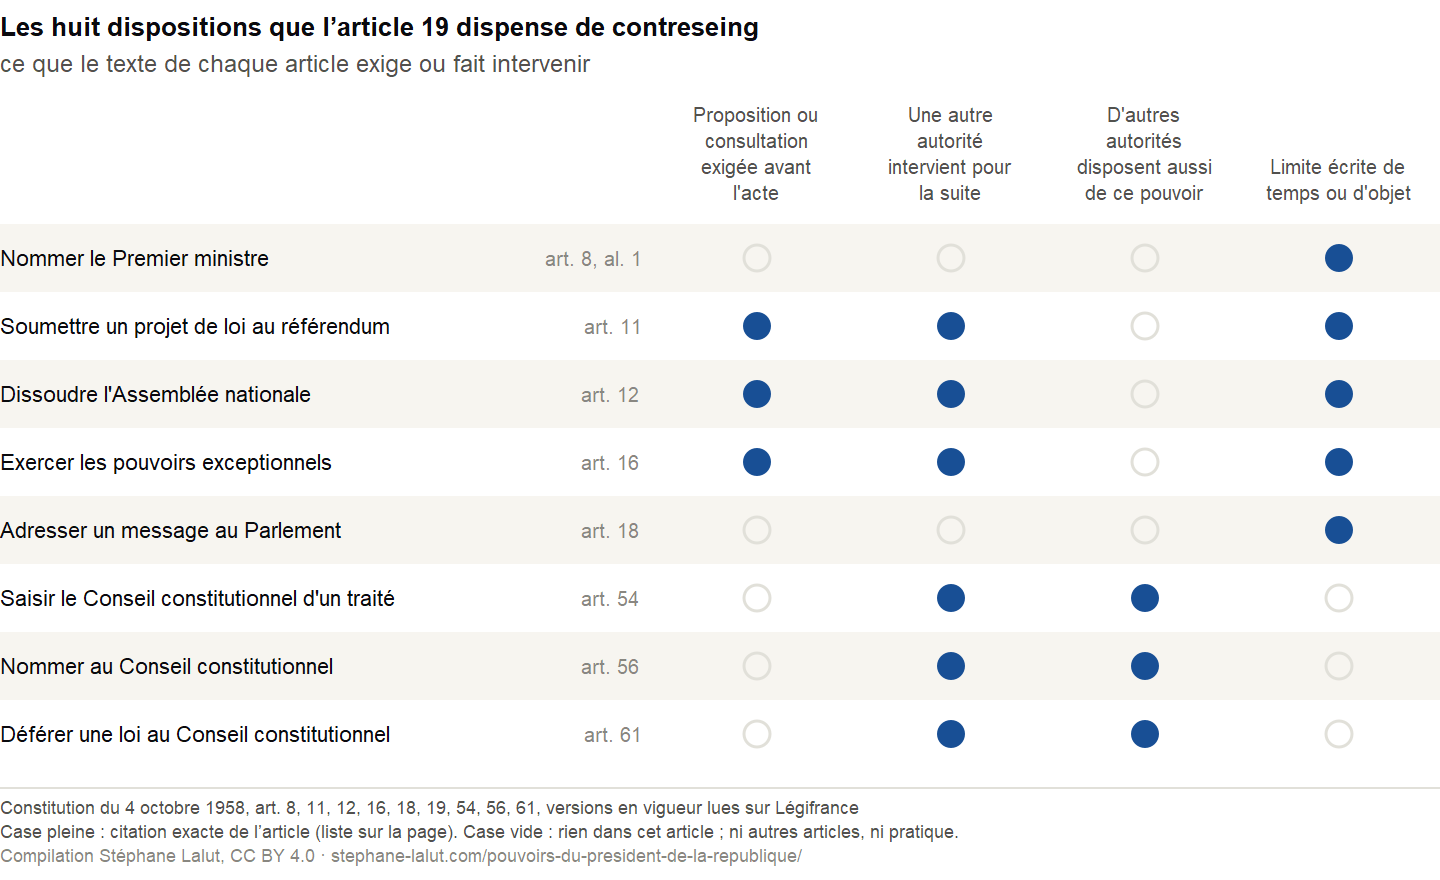
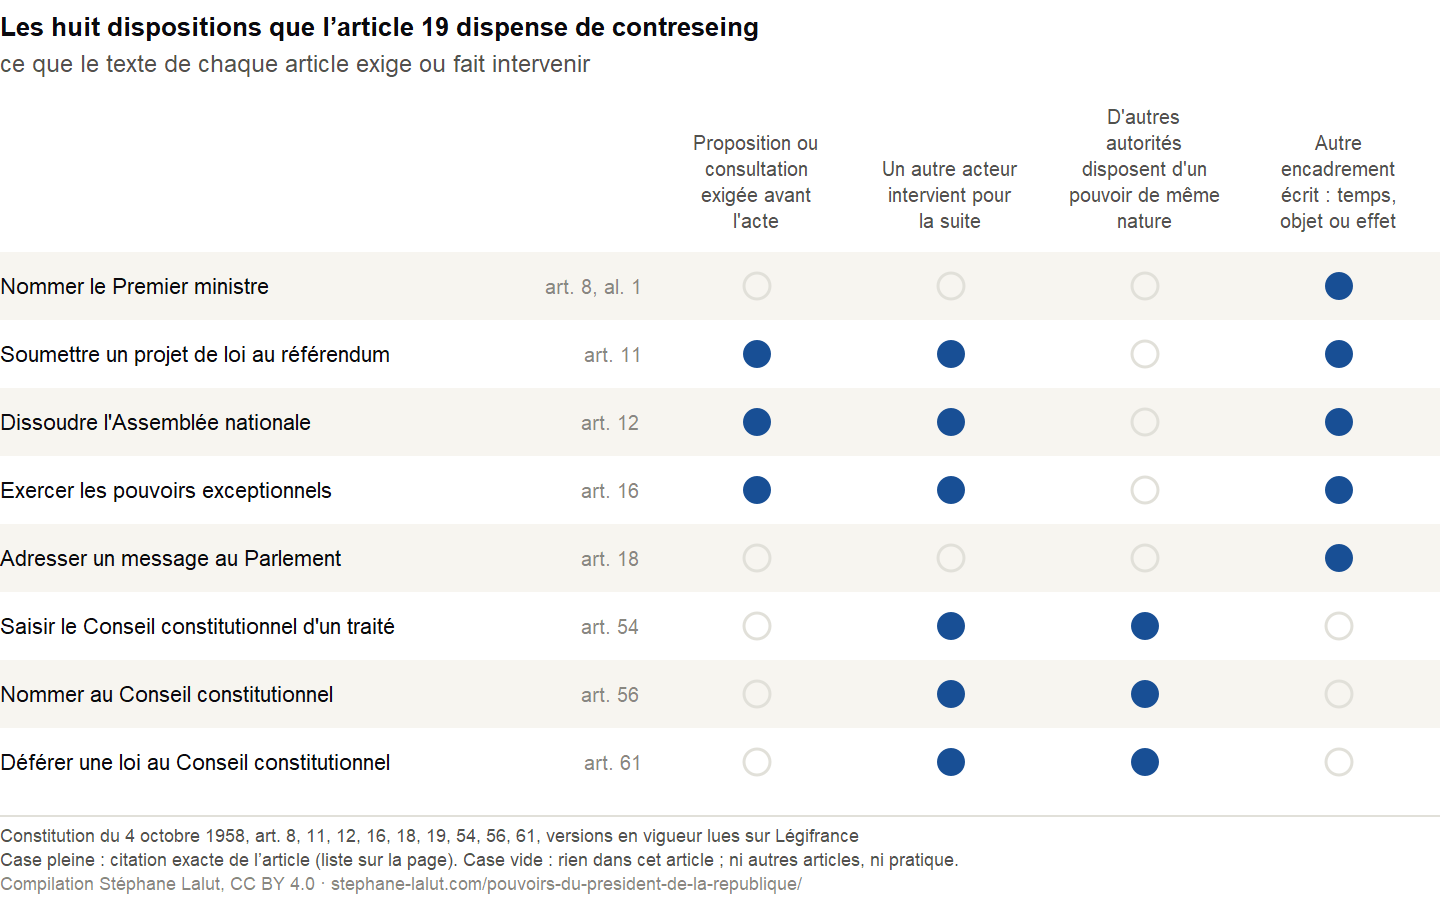
fix(ressources): page Decider blindee apres contre-expertise PRO-20261006-DECIDER
« Soumis au contreseing » remplace « porte la signature du Premier ministre » partout (chapo, introduction, FAQ,
sections) : le test des decrets 2025 a montre que le contreseing peut etre exerce par un ministre delegataire du
Premier ministre (art. 21 al. 2 ; decret n° 2025-504, lu). Resultat en une phrase complete d'une precaution generee
par jeton ; libelles de la matrice (autre acteur, pouvoir de meme nature, autre encadrement ecrit) ; « Signer ne
suffit pas a gouverner » ; art. 37 cite tel quel et art. 38 ajoute (lu, garde G2) ; interpretation generale retiree ;
contradiction de la fiche art. 8 corrigee. Le generateur s'arrete desormais au lieu de tronquer un en-tete de colonne
(« D'autres » perdu sans alerte, vu le 06/10).

Controles : G2 (25 + 7 + 13 citations), G3, G4, mutations ; hugo rc 0 ; check-all --ci 0 ; audit-liens-build 0
critique ; 390 px sans debordement.

diff --git a/layouts/shortcodes/pouvoirs-president.html b/layouts/shortcodes/pouvoirs-president.html
@@ -46,7 +46,7 @@
 {{- else if eq $vue "citations" -}}
 {{- /* Inventaire de l'article 19, une ligne par attribut renseigné : la citation exacte que le générateur a
        retrouvée mot pour mot dans le texte archivé (scripts/update_pouvoirs_president.py, garde G2). */ -}}
-{{- $libs := dict "acte" "Acte" "condition" "Proposition ou consultation exigée avant l'acte" "autre_autorite" "Une autre autorité intervient pour la suite" "partage" "D'autres autorités disposent aussi de ce pouvoir" "limite" "Limite écrite de temps ou d'objet" -}}
+{{- $libs := dict "acte" "Acte" "condition" "Proposition ou consultation exigée avant l'acte" "autre_autorite" "Un autre acteur intervient pour la suite" "partage" "D'autres autorités disposent d'un pouvoir de même nature" "limite" "Autre encadrement écrit : temps, objet ou effet" -}}
 {{- if not $d.inventaire_19 -}}{{ errorf "pouvoirs-president: inventaire_19 absent (%s)" .Page.File.Path }}{{- end -}}
 <div class="table-scroll">
 <table class="pouvoirs-table pouvoirs-citations">

diff --git a/scripts/update_pouvoirs_president.py b/scripts/update_pouvoirs_president.py
@@ -48,9 +48,9 @@ FIG = "pouvoirs-article19"
 PAGE_URL = "stephane-lalut.com/pouvoirs-du-president-de-la-republique/"
 LEGIFRANCE = "https://www.legifrance.gouv.fr/loda/article_lc/"
 ATTRIBUTS = [("condition", "Proposition ou consultation exigée avant l'acte"),
-             ("autre_autorite", "Une autre autorité intervient pour la suite"),
-             ("partage", "D'autres autorités disposent aussi de ce pouvoir"),
-             ("limite", "Limite écrite de temps ou d'objet")]
+             ("autre_autorite", "Un autre acteur intervient pour la suite"),
+             ("partage", "D'autres autorités disposent d'un pouvoir de même nature"),
+             ("limite", "Autre encadrement écrit : temps, objet ou effet")]
 LETTRES_F = {0: "aucune", 1: "une", 2: "deux", 3: "trois", 4: "quatre", 5: "cinq", 6: "six", 7: "sept", 8: "huit"}
 
 
@@ -190,7 +190,7 @@ def txt(x, y, s, size=11, fill=INK2, anchor="start", weight=None) -> str:
 
 def figure(r: dict) -> str:
     inv = r["inventaire"]
-    top, pas, col0, colw = 112, 34, 330, 97
+    top, pas, col0, colw = 126, 34, 330, 97
     H = top + pas * len(inv) + 8
     cart_h = 48
     titre = "Les huit dispositions que l’article 19 dispense de contreseing : ce que leur texte exige ou fait intervenir"
@@ -213,8 +213,10 @@ def figure(r: dict) -> str:
             else:
                 cur = (cur + " " + m).strip()
         lignes.append(cur)
-        for i, l in enumerate(lignes[-4:]):
-            e.append(txt(cx, top - 12 - 13 * (len(lignes[-4:]) - 1 - i), l, 10, INK2, "middle"))
+        if len(lignes) > 5:  # jamais de troncature silencieuse d'un libellé (défaut vu le 06/10 : « D'autres » perdu)
+            raise Arret("figure : libellé de colonne trop long (%d lignes) : %r" % (len(lignes), lib))
+        for i, l in enumerate(lignes):
+            e.append(txt(cx, top - 12 - 13 * (len(lignes) - 1 - i), l, 10, INK2, "middle"))
     for i, ent in enumerate(inv):
         y = top + pas * i + pas / 2
         if i % 2 == 0:
@@ -243,8 +245,9 @@ def fiches_figures(svg: str, A: dict) -> dict:
     if len(cart) != 3 or cart[-1] != LICENCE:
         raise Arret("fiche : cartouche illisible dans le SVG")
     montre = ("Sur les %s dispositions que l'article 19 dispense de contreseing, %s seulement ne contiennent ni condition "
-              "préalable, ni autre autorité appelée à intervenir, ni pouvoir partagé avec d'autres autorités : %s."
-              % (A["n_renvois"], A["n_seuls"], A["seuls_liste"]))
+              "préalable, ni intervention ultérieure d'un autre acteur, ni pouvoir de même nature attribué à d'autres autorités : %s. "
+              "Cette observation ne signifie pas que le président ne disposerait que de %s pouvoirs propres."
+              % (A["n_renvois"], A["n_seuls"], A["seuls_liste"], A["n_seuls"]))
     return {"fr": [dict(id="article19", fichier=FIG, titre=titre, montre=montre, source=cart[0], precaution=cart[1])]}
 
 

diff --git a/scripts/og_pouvoirs_president.py b/scripts/og_pouvoirs_president.py
@@ -16,7 +16,7 @@ sys.path.insert(0, str(Path(__file__).resolve().parent))
 import og_dossier_dette as og  # noqa: E402
 
 ATTRIBUTS = ["condition", "autre_autorite", "partage", "limite"]
-COLS = ["Condition", "Autre", "Partagé", "Limite"]
+COLS = ["Condition", "Autre", "Partagé", "Cadre"]
 
 
 def matrice(d, inv: list[dict]) -> None:

diff --git a/content/pouvoirs-du-president-de-la-republique/_index.md b/content/pouvoirs-du-president-de-la-republique/_index.md
@@ -1,17 +1,17 @@
 ---
 title: "Que peut décider le président de la République seul ?"
 description: "Ce que la Constitution permet au président de faire sans contreseing, à quelles conditions, et qui d'autre intervient : les huit dispositions de l'article 19 lues dans le texte, chaque élément appuyé sur une citation exacte. Données ouvertes."
-chapo: "Sans contreseing, le président peut notamment nommer le Premier ministre et dissoudre l'Assemblée nationale, dans les conditions que fixe la Constitution. L'article 19 énumère huit dispositions dispensées de contreseing ; tous les autres actes du président portent la signature du Premier ministre."
+chapo: "Sans contreseing, le président peut notamment nommer le Premier ministre et dissoudre l'Assemblée nationale, dans les conditions que fixe la Constitution. L'article 19 énumère huit dispositions dispensées de contreseing ; les autres actes du président sont, en principe, soumis au contreseing que prévoit cet article."
 date: 2026-09-30
 lastmod: 2026-10-05
 donnees: [pouvoirs_president_donnees]
 og_title: "Que peut décider le président de la République seul ? — le texte, citation par citation — S. Lalut"
 og_image: "images/og-pouvoirs-president.jpg"
-og_image_alt: "Carte de partage : « Décider seul : ce que dit le texte » — une matrice de huit lignes, une par acte que l'article 19 de la Constitution dispense de contreseing, et quatre colonnes : condition préalable, autre autorité, pouvoir partagé, limite écrite ; case pleine quand l'article contient une citation exacte de l'élément."
+og_image_alt: "Carte de partage : « Décider seul : ce que dit le texte » — une matrice de huit lignes, une par acte que l'article 19 de la Constitution dispense de contreseing, et quatre colonnes : condition préalable, autre acteur, pouvoir de même nature, autre encadrement écrit ; case pleine quand l'article contient une citation exacte de l'élément."
 dataset:  # JSON-LD Dataset (partials/schema-dataset-page.html)
   jeu: "pouvoirs_president_donnees"
   nom: "Les actes du président de la République dispensés de contreseing : inventaire de l'article 19 en citations"
-  description: "Pour chacune des huit dispositions que l'article 19 de la Constitution dispense de contreseing (art. 8 al. 1, 11, 12, 16, 18, 54, 56, 61) : l'acte, la proposition ou la consultation exigée, l'autre autorité appelée à intervenir, les autres autorités disposant aussi de ce pouvoir et la limite écrite, chacun appuyé sur une citation exacte de l'article, vérifiée contre le texte en vigueur lu sur Légifrance ; et les articles qui attribuent la loi et le règlement (art. 13, 19, 21, 34, 37)."
+  description: "Pour chacune des huit dispositions que l'article 19 de la Constitution dispense de contreseing (art. 8 al. 1, 11, 12, 16, 18, 54, 56, 61) : l'acte, la proposition ou la consultation exigée, l'autre acteur appelé à intervenir, les autres autorités disposant d'un pouvoir de même nature et l'autre encadrement écrit, chacun appuyé sur une citation exacte de l'article, vérifiée contre le texte en vigueur lu sur Légifrance ; et les articles qui attribuent la loi et le règlement (art. 13, 19, 21, 34, 37)."
   couverture_temporelle: "2026"
   couverture_spatiale: "France"
   variables:
@@ -23,13 +23,13 @@ dataset:  # JSON-LD Dataset (partials/schema-dataset-page.html)
   fichiers: ["pouvoirs_president_donnees.csv", "pouvoirs_president_donnees.json"]
 faq:
   - question: "Que peut décider le président de la République seul ?"
-    answer: "La Constitution ne parle pas de décider seul. Elle énumère, à l'article 19, huit dispositions dont les actes échappent au contreseing du Premier ministre : nommer le Premier ministre, soumettre un projet de loi au référendum, dissoudre l'Assemblée nationale, exercer les pouvoirs exceptionnels, adresser des messages au Parlement, saisir le Conseil constitutionnel d'un traité, nommer au Conseil constitutionnel, lui déférer une loi. Plusieurs ont leurs conditions écrites : le référendum exige une proposition du Gouvernement ou des deux assemblées, la dissolution la consultation du Premier ministre et des présidents des assemblées, les pouvoirs exceptionnels une crise définie et un contrôle du Conseil constitutionnel. Tous ses autres actes sont contresignés par le Premier ministre et, le cas échéant, par les ministres responsables."
+    answer: "La Constitution ne parle pas de décider seul. Elle énumère, à l'article 19, huit dispositions dont les actes échappent au contreseing du Premier ministre : nommer le Premier ministre, soumettre un projet de loi au référendum, dissoudre l'Assemblée nationale, exercer les pouvoirs exceptionnels, adresser des messages au Parlement, saisir le Conseil constitutionnel d'un traité, nommer au Conseil constitutionnel, lui déférer une loi. Plusieurs ont leurs conditions écrites : le référendum exige une proposition du Gouvernement ou des deux assemblées, la dissolution la consultation du Premier ministre et des présidents des assemblées, les pouvoirs exceptionnels une crise définie et un contrôle du Conseil constitutionnel. Ses autres actes sont soumis au contreseing prévu par l'article 19 : celui du Premier ministre et, le cas échéant, des ministres responsables."
   - question: "Le président peut-il renvoyer le Premier ministre ?"
     answer: "L'article 8 décrit une seule voie : le président met fin aux fonctions du Premier ministre « sur la présentation par celui-ci de la démission du Gouvernement ». Le texte ne prévoit pas de révocation par le président ; il prévoit la responsabilité du Gouvernement devant l'Assemblée nationale (article 20, qui renvoie aux articles 49 et 50)."
   - question: "Le président peut-il refuser de promulguer une loi ?"
     answer: "L'article 10 fixe un délai, non un veto. Le président promulgue la loi dans les quinze jours qui suivent sa transmission ; dans ce délai, il peut demander au Parlement une nouvelle délibération de la loi ou de certains de ses articles, qui ne peut être refusée, et c'est le Parlement qui vote à nouveau. Il peut aussi déférer la loi au Conseil constitutionnel avant sa promulgation (article 61), ce qui suspend le délai : il obtient alors un contrôle de constitutionnalité, pas un jugement d'opportunité."
   - question: "Qui fixe les impôts : le président, le Gouvernement ou le Parlement ?"
-    answer: "L'article 34 de la Constitution réserve à la loi « l'assiette, le taux et les modalités de recouvrement des impositions de toutes natures » : la loi est votée par le Parlement. Les matières qui ne relèvent pas de la loi ont un caractère réglementaire (article 37), et le pouvoir réglementaire est exercé par le Premier ministre (article 21), sous réserve des décrets délibérés en Conseil des ministres que signe le président (article 13), contresignés par le Premier ministre (article 19)."
+    answer: "L'article 34 de la Constitution réserve à la loi « l'assiette, le taux et les modalités de recouvrement des impositions de toutes natures » : la loi est votée par le Parlement. Les matières qui ne relèvent pas de la loi ont un caractère réglementaire (article 37), et le pouvoir réglementaire est exercé par le Premier ministre (article 21), sous réserve des décrets délibérés en Conseil des ministres que signe le président (article 13), soumis au contreseing (article 19). Après habilitation du Parlement, le Gouvernement peut aussi agir par ordonnances (article 38), délibérées en Conseil des ministres et signées par le président (article 13)."
 ressource:  # index /ressources/ (layouts/ressources/list.html)
   bloc: "promesses"
   rang: 10
@@ -42,17 +42,17 @@ onglet:  # barre du dossier de son bloc (partials/barre-bloc.html, posée par le
 
 {{< reutiliser-ancre >}}
 
-**«&nbsp;Décider seul&nbsp;» n'est pas une catégorie de la Constitution.** Elle distingue les actes que le président signe **sans contreseing**, ceux des {{< pv-val "n_renvois" >}} dispositions qu'énumère l'article&nbsp;19, de tous les autres, que le Premier ministre contresigne. La question est pourtant la bonne, parce que c'est celle que pose l'électeur&nbsp;: de ce qu'un président promet, qu'est-ce qui dépend de sa signature, et qui d'autre le texte fait-il intervenir&nbsp;?
+**«&nbsp;Décider seul&nbsp;» n'est pas une catégorie de la Constitution.** Elle distingue les actes que le président signe **sans contreseing**, ceux des {{< pv-val "n_renvois" >}} dispositions qu'énumère l'article&nbsp;19, de tous les autres, soumis au contreseing du Premier ministre et, le cas échéant, des ministres responsables. La question est pourtant la bonne, parce que c'est celle que pose l'électeur&nbsp;: de ce qu'un président promet, qu'est-ce qui dépend de sa signature, et qui d'autre le texte fait-il intervenir&nbsp;?
 
-**Sans contreseing ne veut pas dire sans condition, ni sans intervention d'autres acteurs.** Pour le montrer, cette page lit les {{< pv-val "n_renvois" >}} articles visés par l'article&nbsp;19 et ne remplit une case que par une **citation exacte** de l'article, retrouvée mot pour mot dans le texte en vigueur par un script&nbsp;: aucune case n'est remplie à la main.
+**Sans contreseing ne veut pas dire sans condition, ni sans intervention d'autres acteurs.** Cette page décrit les compétences et les interventions que le texte fait apparaître&nbsp;; elle ne mesure pas l'influence politique du président dans la pratique. Pour le montrer, cette page lit les {{< pv-val "n_renvois" >}} articles visés par l'article&nbsp;19 et ne remplit une case que par une **citation exacte** de l'article, retrouvée mot pour mot dans le texte en vigueur par un script&nbsp;: aucune case n'est remplie à la main.
 
-{{< figure-svg fichier="pouvoirs-article19" alt="Matrice de huit lignes, une par acte que l'article 19 dispense de contreseing, et quatre colonnes : condition préalable, autre autorité qui intervient, pouvoir partagé avec d'autres autorités, limite écrite. Les cases pleines sont énumérées, citation par citation, dans le tableau qui suit la figure." >}}Une ligne par disposition visée par l'article&nbsp;19, une colonne par élément. Case pleine&nbsp;: l'article lui-même contient une citation exacte de l'élément (liste complète plus bas)&nbsp;; case vide&nbsp;: cet article ne le contient pas, ce qui ne dit rien des autres articles ni de la pratique.{{< /figure-svg >}}
+{{< figure-svg fichier="pouvoirs-article19" alt="Matrice de huit lignes, une par acte que l'article 19 dispense de contreseing, et quatre colonnes : condition préalable, autre acteur qui intervient pour la suite, pouvoir de même nature attribué à d'autres autorités, autre encadrement écrit. Les cases pleines sont énumérées, citation par citation, dans le tableau qui suit la figure." >}}Une ligne par disposition visée par l'article&nbsp;19, une colonne par élément. Case pleine&nbsp;: l'article lui-même contient une citation exacte de l'élément (liste complète plus bas)&nbsp;; case vide&nbsp;: cet article ne le contient pas, ce qui ne dit rien des autres articles ni de la pratique.{{< /figure-svg >}}
 
 {{< fig-actions id="article19" >}}
 
 <div class="resultat-phrase">
 
-**Le résultat en une phrase.** Sur les {{< pv-val "n_renvois" >}} dispositions que l'article&nbsp;19 dispense de contreseing, {{< pv-val "n_seuls" >}} seulement ne contiennent, dans leur texte, ni condition préalable, ni autre autorité appelée à intervenir, ni pouvoir partagé avec d'autres autorités&nbsp;: {{< pv-val "seuls_liste" >}}.
+**Le résultat en une phrase.** Sur les {{< pv-val "n_renvois" >}} dispositions que l'article&nbsp;19 dispense de contreseing, {{< pv-val "n_seuls" >}} seulement ne contiennent, dans leur texte, ni condition préalable, ni intervention ultérieure d'un autre acteur, ni pouvoir de même nature attribué à d'autres autorités&nbsp;: {{< pv-val "seuls_liste" >}}. Cette observation ne signifie pas que le président ne disposerait que de {{< pv-val "n_seuls" >}} pouvoirs propres.
 
 </div>
 
@@ -72,21 +72,21 @@ Ce critère ne dit pas tout. Un acte dispensé de contreseing peut exiger une pr
 
 ## Quels actes le président signe-t-il sans contreseing&nbsp;? {#sans-contreseing}
 
-Les fiches qui suivent reprennent, pour chacune des {{< pv-val "n_renvois" >}} dispositions, qui décide, la condition, le tiers qui intervient et ce que l'acte produit. Ces pouvoirs arbitrent ou déclenchent plus qu'ils ne fixent le contenu d'une politique, ce qui s'accorde avec la fonction que l'article&nbsp;5 assigne au président&nbsp;: veiller au respect de la Constitution et assurer, «&nbsp;par son arbitrage, le fonctionnement régulier des pouvoirs publics ainsi que la continuité de l'État&nbsp;».
+Les fiches qui suivent reprennent, pour chacune des {{< pv-val "n_renvois" >}} dispositions, qui décide, la condition, le tiers qui intervient et ce que l'acte produit. Ils se lisent avec la fonction que l'article&nbsp;5 assigne au président&nbsp;: veiller au respect de la Constitution et assurer, «&nbsp;par son arbitrage, le fonctionnement régulier des pouvoirs publics ainsi que la continuité de l'État&nbsp;».
 
 {{< pouvoirs-president vue="sans_contreseing" >}}
 
 ## Qui fixe les règles que le citoyen ressent&nbsp;? {#qui-fixe-les-regles}
 
-**Signer n'est pas gouverner.** Lorsqu'un président promet une baisse d'impôt, une réforme ou une règle nouvelle, par quelles autres signatures doit-il passer&nbsp;? Les impôts, les prestations, les obligations&nbsp;: le texte les répartit entre deux instruments, la loi et le règlement. **La loi**, votée par le Parlement, fixe les règles dans les matières de l'article&nbsp;34, dont l'impôt. **Le règlement** couvre tout le reste (article&nbsp;37)&nbsp;; il est exercé par le Premier ministre (article&nbsp;21), à l'exception des décrets délibérés en Conseil des ministres, que le président signe (article&nbsp;13) et que le Premier ministre contresigne (article&nbsp;19).
+**Signer ne suffit pas à gouverner.** Lorsqu'un président promet une baisse d'impôt, une réforme ou une règle nouvelle, par quelles autres signatures doit-il passer&nbsp;? Les impôts, les prestations, les obligations&nbsp;: le texte les répartit entre deux instruments, la loi et le règlement. **La loi**, votée par le Parlement, fixe les règles dans les matières de l'article&nbsp;34, dont l'impôt. **Le règlement** couvre le reste&nbsp;: «&nbsp;Les matières autres que celles qui sont du domaine de la loi ont un caractère réglementaire&nbsp;» (article&nbsp;37). Le pouvoir réglementaire est exercé par le Premier ministre (article&nbsp;21), sous réserve des décrets délibérés en Conseil des ministres, que le président signe (article&nbsp;13) et qui sont soumis au contreseing (article&nbsp;19). Après habilitation du Parlement, le Gouvernement peut aussi prendre par ordonnances des mesures du domaine de la loi (article&nbsp;38).
 
 {{< pouvoirs-president vue="regles" >}}
 
-C'est pourquoi une promesse de campagne qui porte sur un impôt passe par un vote, et une promesse qui porte sur une règle réglementaire passe par un décret du Premier ministre ou un décret délibéré en Conseil des ministres&nbsp;: dans les deux cas, par d'autres signatures que celle du président seul.
+C'est pourquoi une promesse de campagne qui porte sur un impôt passe par un vote. Lorsqu'une promesse doit être mise en œuvre au niveau national par décret, celui-ci relève du Premier ministre ou, s'il est délibéré en Conseil des ministres, est signé par le président et soumis au contreseing&nbsp;: dans les deux cas, d'autres signatures que celle du président seul interviennent.
 
 ## Quels pouvoirs lui prête-t-on en propre alors qu'ils sont contresignés&nbsp;? {#pouvoirs-contresignes}
 
-Chef des armées, droit de grâce, traités, décrets, nominations&nbsp;: ce sont les attributions les plus visibles de la fonction, et aucune ne figure dans la liste de l'article&nbsp;19. Chacune porte donc, à côté de la signature du président, celle du Premier ministre et, le cas échéant, des ministres responsables.
+Chef des armées, droit de grâce, traités, décrets, nominations&nbsp;: ce sont les attributions les plus visibles de la fonction, et aucune ne figure dans la liste de l'article&nbsp;19. Lorsqu'elles donnent lieu à un acte du président ne relevant pas des exceptions de l'article&nbsp;19, ces attributions sont soumises au contreseing que prévoit cet article.
 
 {{< pouvoirs-president vue="contresigne" >}}
 
@@ -119,5 +119,5 @@ Tous les articles cités ici ont été lus dans leur version en vigueur, sur Lé
 L'inventaire, les citations et la matrice sont produits par un script unique, qui relit les textes archivés et refuse d'écrire si une citation cesse de figurer dans son article&nbsp;; aucune case n'est remplie à la main. **Télécharger les données** (licence CC BY 4.0)&nbsp;: [CSV](/pouvoirs_president_donnees.csv), en format long, une ligne par élément et par article&nbsp;; [JSON](/pouvoirs_president_donnees.json), avec les définitions et le compte rendu des contrôles.
 
 {{< reutiliser figures="figures_pouvoirs" jeu="pouvoirs_president_donnees" sources="Légifrance (Constitution du 4 octobre 1958)" donnees="L'inventaire des huit dispositions de l'article 19, chaque élément avec sa citation exacte, son article et sa date de lecture, et les articles qui attribuent la loi et le règlement ; le même contenu existe en CSV, en format long, lisible dans un tableur." >}}
-Cette page lit dans le texte de la Constitution les {{< pv-val "n_renvois" >}} dispositions que l'article&nbsp;19 dispense de contreseing. {{< pv-val "n_seuls_maj" >}} seulement, {{< pv-val "seuls_liste" >}}, ne contiennent dans leur article ni condition préalable, ni autre autorité appelée à intervenir, ni pouvoir partagé avec d'autres autorités. La loi, votée par le Parlement, fixe notamment l'impôt (art.&nbsp;34)&nbsp;; le règlement appartient au Premier ministre (art.&nbsp;21), hors les décrets délibérés en Conseil des ministres, contresignés.
+Cette page lit dans le texte de la Constitution les {{< pv-val "n_renvois" >}} dispositions que l'article&nbsp;19 dispense de contreseing. {{< pv-val "n_seuls_maj" >}} seulement, {{< pv-val "seuls_liste" >}}, ne contiennent dans leur article ni condition préalable, ni intervention ultérieure d'un autre acteur, ni pouvoir de même nature attribué à d'autres autorités&nbsp;; ce qui ne signifie pas que le président ne disposerait que de ces pouvoirs propres. La loi, votée par le Parlement, fixe notamment l'impôt (art.&nbsp;34)&nbsp;; le règlement appartient au Premier ministre (art.&nbsp;21), hors les décrets délibérés en Conseil des ministres, soumis au contreseing.
 {{< /reutiliser >}}
